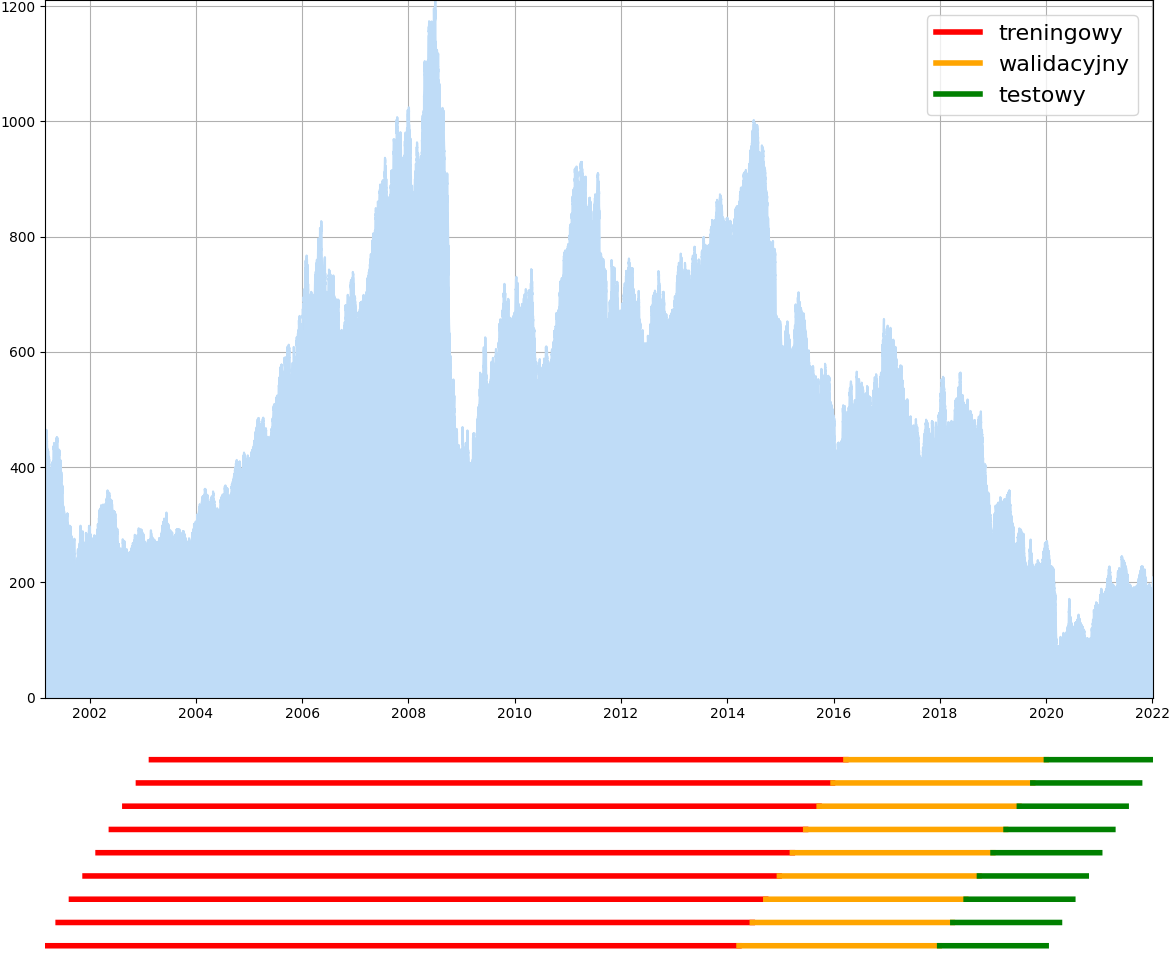
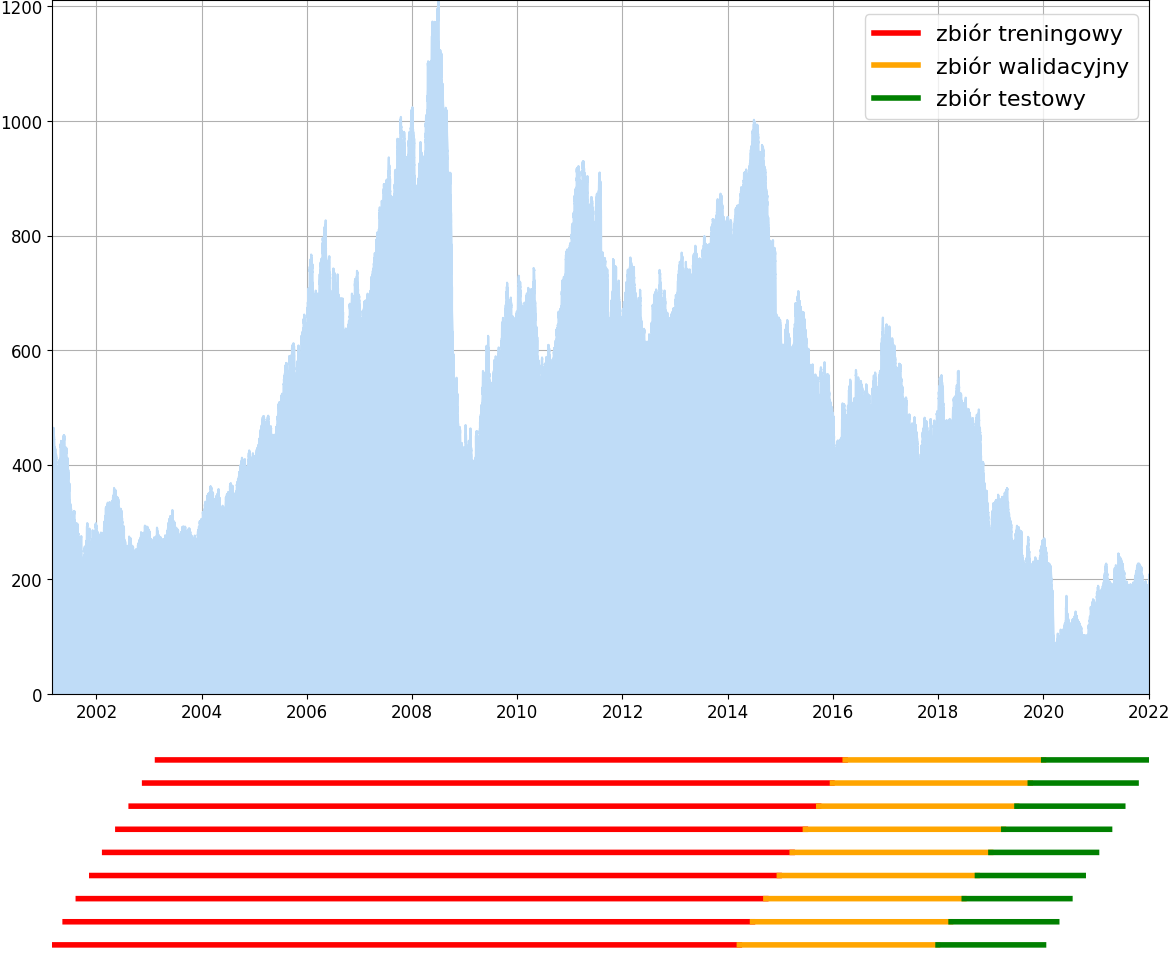
update plots.py

diff --git a/create_plots.py b/create_plots.py
@@ -95,6 +95,8 @@ def cross_validation_visualization(df: pd.DataFrame()):
     y = df['Close']
     axs[0].plot(x, y, color='#BFDCF7')
     axs[0].fill_between(x, y, color='#BFDCF7')
+    axs[0].tick_params(axis='x', labelsize=12)
+    axs[0].tick_params(axis='y', labelsize=12)
     axs[0].margins(0)
     axs[0].grid(True)
 
@@ -120,9 +122,9 @@ def cross_validation_visualization(df: pd.DataFrame()):
         y_test = [start_value] * len(x_test)
 
         if i == 8:
-            axs[1].plot(x_train, y_train, color='red', linewidth=4, label='treningowy')
-            axs[1].plot(x_validation, y_validation, color='orange', linewidth=4, label='walidacyjny')
-            axs[1].plot(x_test, y_test, color='green', linewidth=4, label='testowy')
+            axs[1].plot(x_train, y_train, color='red', linewidth=4, label='zbiór treningowy')
+            axs[1].plot(x_validation, y_validation, color='orange', linewidth=4, label='zbiór walidacyjny')
+            axs[1].plot(x_test, y_test, color='green', linewidth=4, label='zbiór testowy')
         
         else:
             axs[1].plot(x_train, y_train, color='red', linewidth=4, )
@@ -149,7 +151,9 @@ if __name__ == '__main__':
     ig.generate_images()
 
     plots_dir_name = 'PLOTS'
-    os.mkdir(plots_dir_name)
+    
+    if not os.path.isdir(plots_dir_name):
+        os.mkdir(plots_dir_name)
 
     strategy_visualization(ig.df)
     cross_validation_visualization(ig.df)
